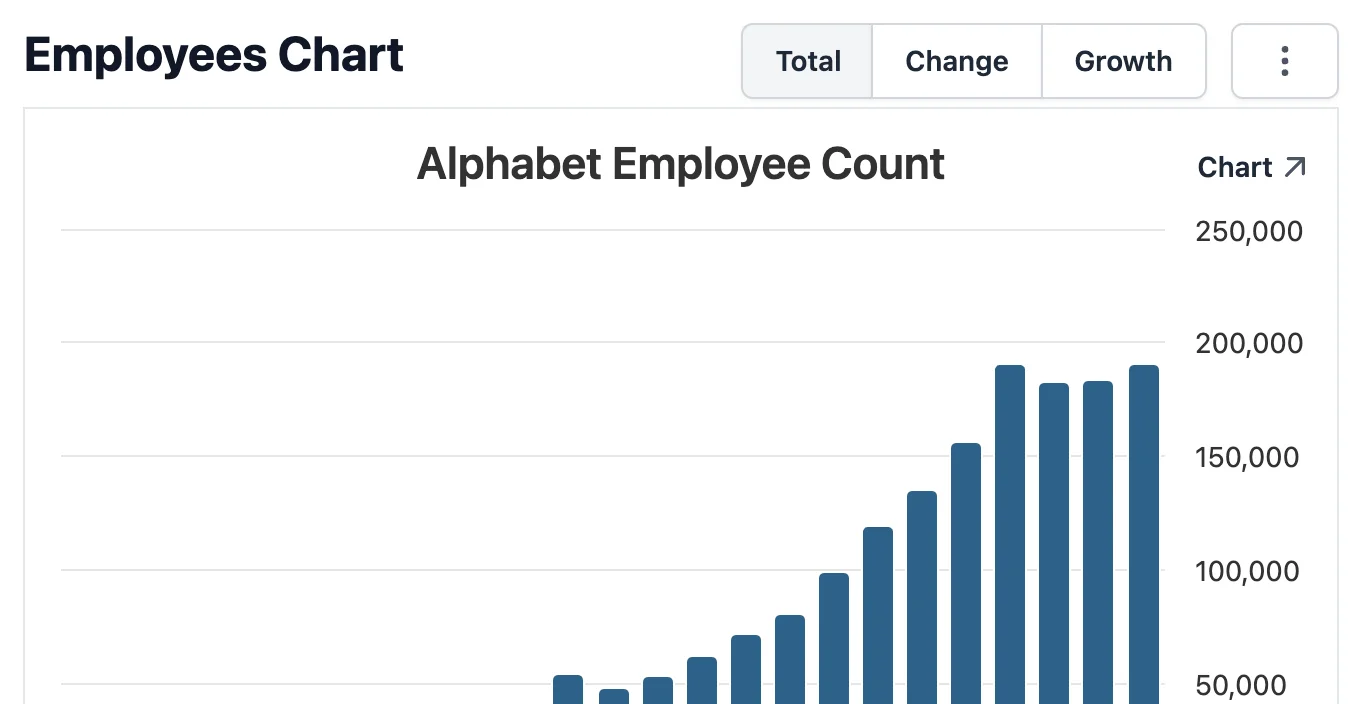
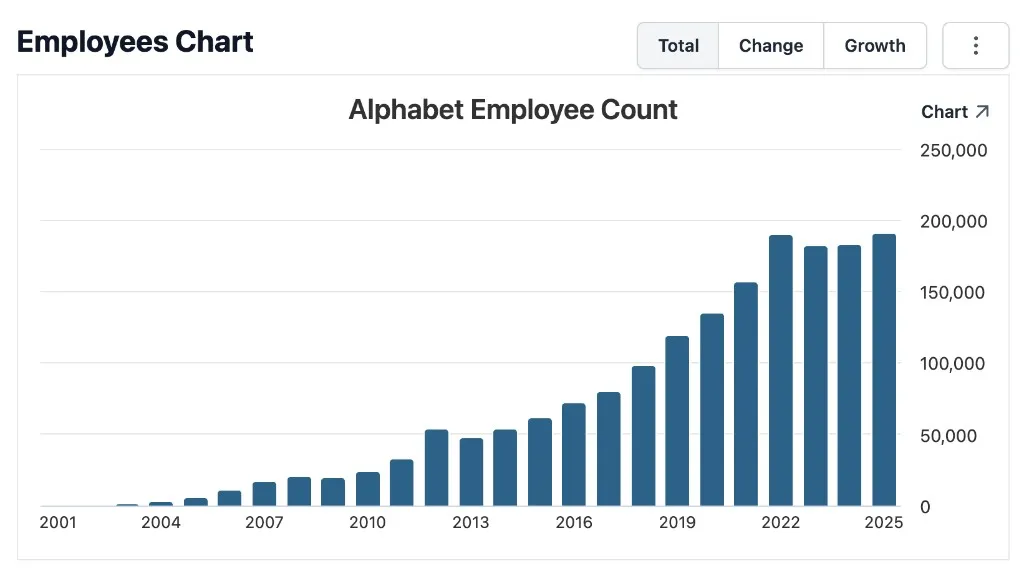
feat: small updates

diff --git a/app/react-fiber/page-client.tsx b/app/react-fiber/page-client.tsx
@@ -676,13 +676,8 @@ const element = {
                 key={`code-step-${currentStep}`}
                 language={
                   (codeTransformations[currentStep]?.language as
-                    | 'jsx'
-                    | 'javascript'
-                    | 'js'
-                    | 'typescript'
-                    | 'ts'
-                    | 'tsx'
-                    | 'xml') || 'javascript'
+                    'jsx' | 'javascript' | 'js' | 'typescript' | 'ts' | 'tsx' | 'xml') ||
+                  'javascript'
                 }
                 code={codeTransformations[currentStep]?.code || ''}
               />

diff --git a/lib/microbit-connector/protocol.ts b/lib/microbit-connector/protocol.ts
@@ -51,13 +51,10 @@ export type MicrobitIconCommand = {
 
 /** Команда, которую браузер кодирует и отправляет на micro:bit по UART. */
 export type MicrobitProtocolCommand =
-  | MicrobitSimpleCommand
-  | MicrobitTextCommand
-  | MicrobitIconCommand;
+  MicrobitSimpleCommand | MicrobitTextCommand | MicrobitIconCommand;
 
 export type MicrobitBoardAction =
-  | MicrobitProtocolCommand
-  | { type: MicrobitBoardActionKind.TextPrompt };
+  MicrobitProtocolCommand | { type: MicrobitBoardActionKind.TextPrompt };
 
 /**
  * GATT-сервис Nordic UART (NUS) на micro:bit.

diff --git a/lib/yandex-witcher/types.ts b/lib/yandex-witcher/types.ts
@@ -103,13 +103,7 @@ export interface WitcherSessionState {
 }
 
 export type WitcherAction =
-  | 'session_start'
-  | 'help'
-  | 'goodbye'
-  | 'restart'
-  | 'choose_school'
-  | 'choose_weapon'
-  | 'unknown';
+  'session_start' | 'help' | 'goodbye' | 'restart' | 'choose_school' | 'choose_weapon' | 'unknown';
 
 export interface ParsedWitcherCommand {
   action: WitcherAction;

diff --git a/lib/yandex-hub/types.ts b/lib/yandex-hub/types.ts
@@ -29,9 +29,7 @@ export type MicrobitIconAliceCommand = {
 };
 
 export type MicrobitCommand =
-  | MicrobitSimpleAliceCommand
-  | MicrobitTextAliceCommand
-  | MicrobitIconAliceCommand;
+  MicrobitSimpleAliceCommand | MicrobitTextAliceCommand | MicrobitIconAliceCommand;
 
 export const MICROBIT_SIMPLE_ALICE_COMMANDS: readonly MicrobitSimpleAliceCommand[] = [
   'smile',

diff --git a/content/garden/real-programmers-dont-use-ai.md b/content/garden/real-programmers-dont-use-ai.md
@@ -40,6 +40,8 @@ tags: [career, programming, ai, history, seedling]
 
 Символ эпохи: Turbo Pascal от Borland (**1983**) стоил около **$50** — это цена учебника. Среда разработки перестала быть корпоративной роскошью. А когда инструмент дешевеет, задач появляется не меньше — больше. Теперь, чтобы быть настоящим разработчиком не надо работать в NASA или учиться в MIT, урок информатики в пятом классе школы с Borland Delphi позволял почувствовать себя таким в полной мере.
 
+![Таймлайн эр вычислений с выделенной эпохой IBM PC + Borland Turbo Pascal (1981–1991)](/garden/real-programmers-dont-use-ai/ibm-pascal-era.webp)
+
 ![Среда Turbo Pascal 7.0: синий DOS-экран и диалог About](/garden/real-programmers-dont-use-ai/turbo-pascal.webp)
 
 К **2000** в США уже говорили о примерно **700 тысячах** программистов и software engineers. Microsoft к **2009** разрослась примерно до **93 тысяч** человек. Google, у которого в **2001** было **284** сотрудника, к **2009** насчитывал около [**20 тысяч**](https://stockanalysis.com/stocks/goog/employees/). Это не выглядит, как «меньше работы из‑за удобных языков». Это взрыв спроса на людей, которые на этих языках строят продукты.

diff --git a/content/garden/real-programmers-dont-use-ai_en.md b/content/garden/real-programmers-dont-use-ai_en.md
@@ -40,6 +40,8 @@ And you know what? That's more or less what happened — the bar dropped, in the
 
 The symbol of the era: Borland's Turbo Pascal (**1983**) cost around **$50** — the price of a textbook. The development environment stopped being a corporate luxury. And when a tool gets cheaper, the number of tasks doesn't shrink; it grows. You no longer had to work at NASA or study at MIT to feel like a real developer — a fifth-grade computing lesson with Borland Delphi did the job perfectly well.
 
+![Timeline of computing eras with IBM PC + Borland Turbo Pascal (1981–1991) highlighted](/garden/real-programmers-dont-use-ai/ibm-pascal-era.webp)
+
 ![The Turbo Pascal 7.0 IDE: blue DOS screen with the About dialog open](/garden/real-programmers-dont-use-ai/turbo-pascal.webp)
 
 By **2000** the US was talking about roughly **700,000** programmers and software engineers. Microsoft grew to around **93,000** people by **2009**. Google, which had **284** employees in **2001**, was at about [**20,000**](https://stockanalysis.com/stocks/goog/employees/) by **2009**. That is not what "less work, thanks to convenient languages" looks like. That's an explosion of demand for people who build products in those languages.

diff --git a/content/garden/flux-some-things-never-change.md b/content/garden/flux-some-things-never-change.md
@@ -1,5 +1,5 @@
 ---
-title: "Flux: Some things never change"
+title: 'Flux: Some things never change'
 description: The English translation of an old note about MVC, Flux, Redux, and why unidirectional data flow is not as new as it seems.
 date: 2018-02-14
 tags: [javascript, react, redux, flux, architecture, seedling]
